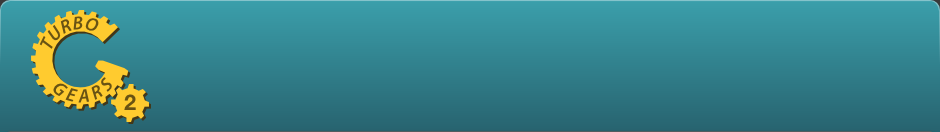
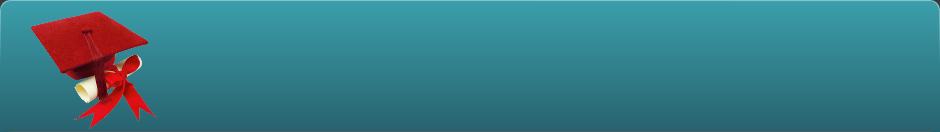
Headder design and login link to sending forgotten passwords

Changed region(s): [[0.0309, 0.0606, 0.1851, 0.9697]]

diff --git a/thesis_portal/public/css/style.css b/thesis_portal/public/css/style.css
@@ -213,6 +213,7 @@ form.loginfields input#submit
 }
 
 /* Sidebar */
+
 .sidebar {
   border: 1px solid #cce;
   background-color: #eee;
@@ -309,6 +310,14 @@ background:#EEEEFF url(../images/info.png) no-repeat scroll 10px center;
 }
 .notice {
 background:#EEEEFF url(../images/info.png) no-repeat scroll 10px center;
+}
+
+.sidebar .notice {
+clear: both;
+width: 160px;
+background: #EEEEFF url(../images/info_small.png) no-repeat scroll 0px center;
+padding: 7px 10px 7px 30px;
+line-height: 28px;
 }
 .fielderror {
 color:red;
